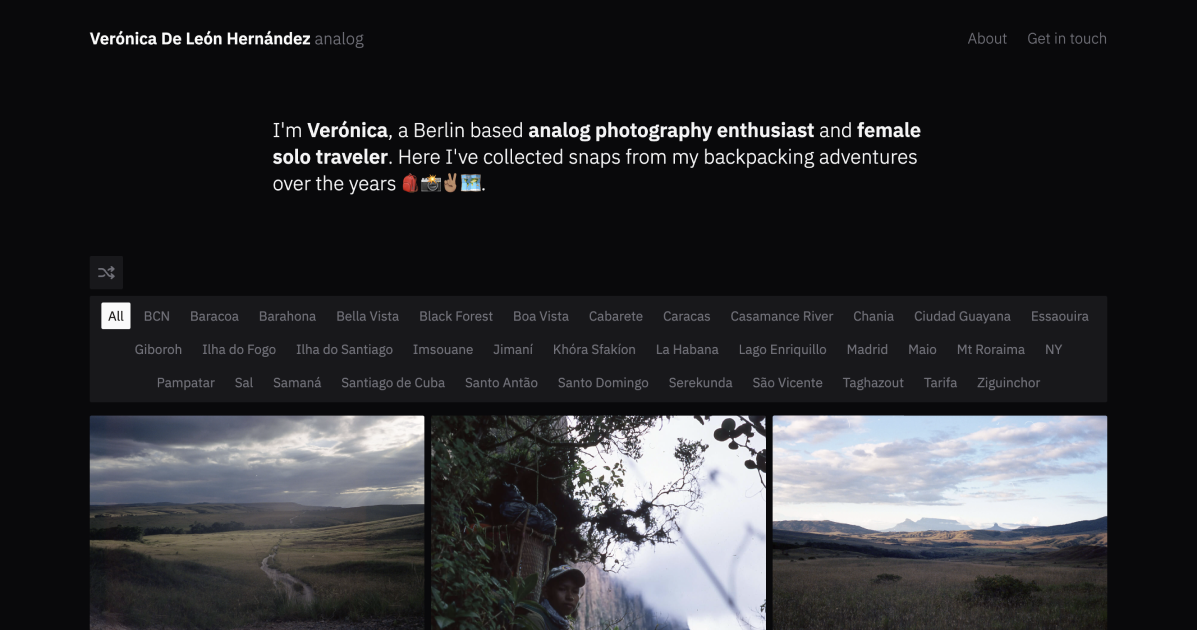
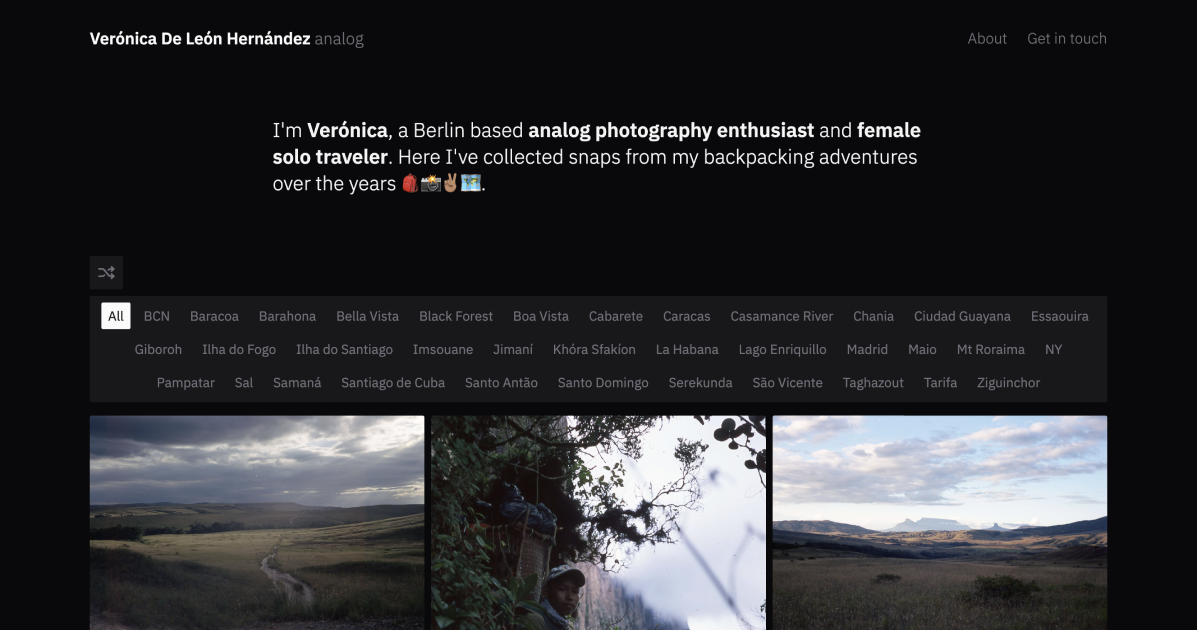
meta info

diff --git a/public/index.html b/public/index.html
@@ -15,7 +15,7 @@
     <link rel="manifest" href="%PUBLIC_URL%/manifest.json" />
 
     <link href='https://api.tiles.mapbox.com/mapbox-gl-js/v<YOUR_MAPBOX_VERSION>/mapbox-gl.css' rel='stylesheet' />
-    <title>Verónica De León Hernández | Analog</title>
+    <title>Verónica De León Hernández | analog</title>
   </head>
   <body>
     <div id="root"></div>
